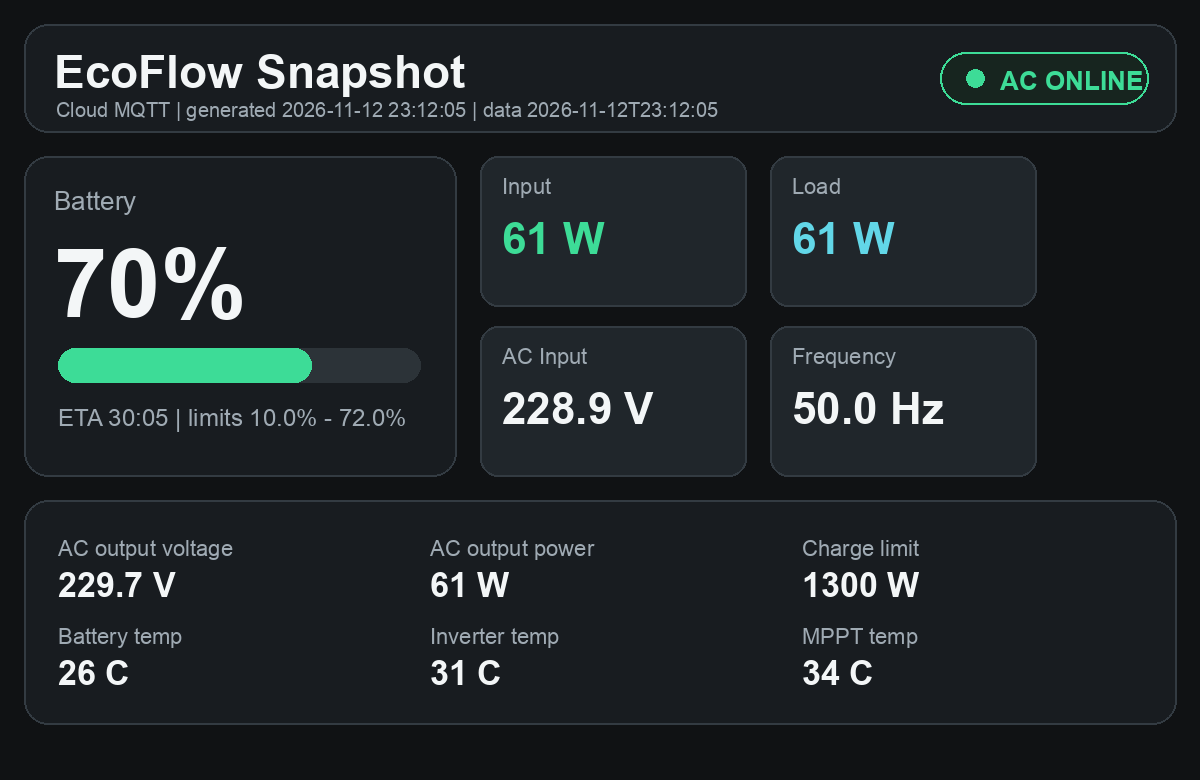
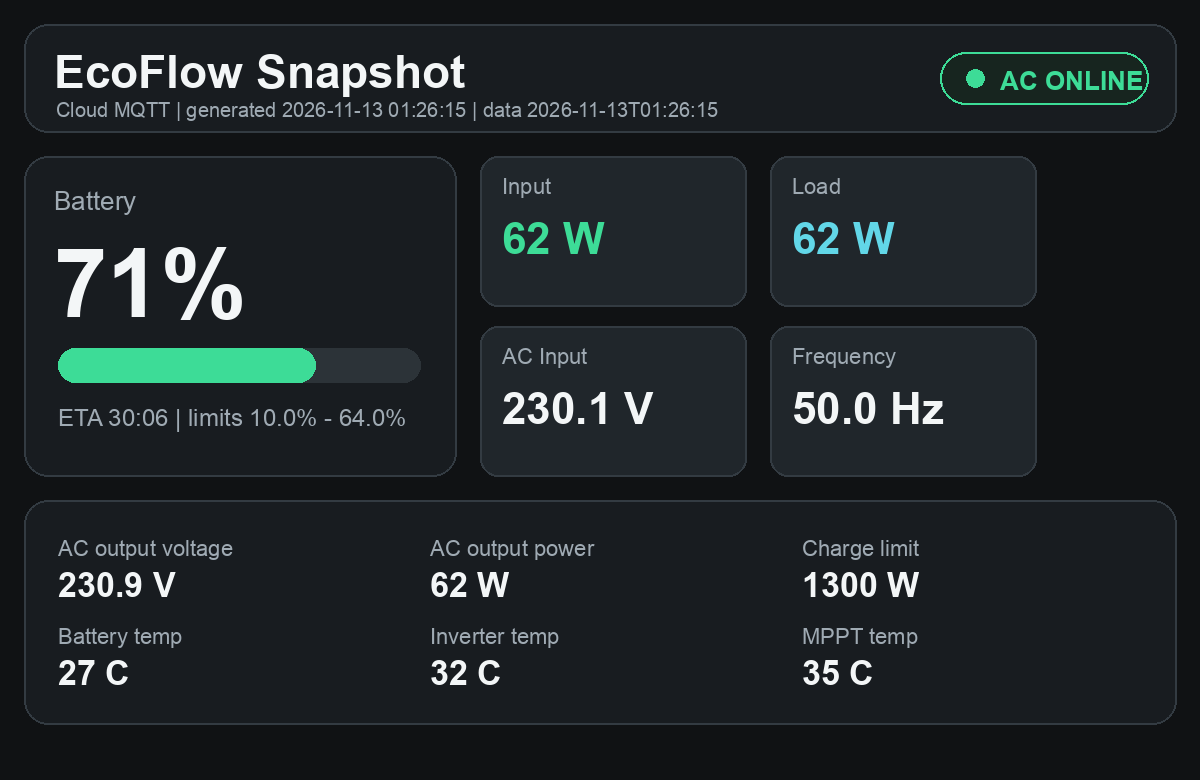
Update EcoFlow dashboard 2026-11-13 01:26:17

diff --git a/index.html b/index.html
@@ -75,7 +75,7 @@
       overflow: hidden;
       margin-top: 14px;
     }
-    .fill { width: 70%; height: 100%; background: linear-gradient(90deg, var(--green), var(--cyan)); }
+    .fill { width: 71%; height: 100%; background: linear-gradient(90deg, var(--green), var(--cyan)); }
     .cards {
       display: grid;
       grid-template-columns: repeat(4, minmax(0, 1fr));
@@ -177,7 +177,7 @@
   <header>
     <div>
       <h1>EcoFlow Snapshot</h1>
-      <div class="sub">Cloud MQTT · generated 2026-11-12T23:12:05 · data 2026-11-12T23:12:05</div>
+      <div class="sub">Cloud MQTT · generated 2026-11-13T01:26:15 · data 2026-11-13T01:26:15</div>
     </div>
     <div class="status online"><span class="dot"></span><span>AC online</span></div>
   </header>
@@ -187,38 +187,38 @@
   <div class="grid">
     <section>
       <h2>Battery</h2>
-      <div class="value">70%</div>
+      <div class="value">71%</div>
       <div class="battery"><div class="fill"></div></div>
-      <div class="row"><span>ETA</span><span>30:05</span></div>
-      <div class="row"><span>SOC limits</span><span>10.0% - 72.0%</span></div>
+      <div class="row"><span>ETA</span><span>30:06</span></div>
+      <div class="row"><span>SOC limits</span><span>10.0% - 64.0%</span></div>
     </section>
     <section>
       <h2>AC</h2>
-      <div class="row"><span>Input voltage</span><span>228.9 V</span></div>
+      <div class="row"><span>Input voltage</span><span>230.1 V</span></div>
       <div class="row"><span>Input frequency</span><span>50.0 Hz</span></div>
-      <div class="row"><span>Output voltage</span><span>229.7 V</span></div>
+      <div class="row"><span>Output voltage</span><span>230.9 V</span></div>
     </section>
   </div>
 
   <div class="cards">
-    <div class="card"><span class="label">Input</span><span class="value">61 W</span></div>
-    <div class="card"><span class="label">Load</span><span class="value">61 W</span></div>
-    <div class="card"><span class="label">Battery temp</span><span class="value">26°C</span></div>
-    <div class="card"><span class="label">Inverter temp</span><span class="value">31°C</span></div>
+    <div class="card"><span class="label">Input</span><span class="value">62 W</span></div>
+    <div class="card"><span class="label">Load</span><span class="value">62 W</span></div>
+    <div class="card"><span class="label">Battery temp</span><span class="value">27°C</span></div>
+    <div class="card"><span class="label">Inverter temp</span><span class="value">32°C</span></div>
   </div>
 
   
     <section class="daily-card">
       <h2>Останні 24 години</h2>
       <div class="daily-grid">
-        <div class="daily-item"><span class="label">Напруга min / max</span><strong>221 V / 237 V</strong><small>12.11 06:53 / 11.11 23:55</small></div>
-        <div class="daily-item"><span class="label">SOC min / max</span><strong>70% / 80%</strong><small>12.11 20:32 / 11.11 23:37</small></div>
+        <div class="daily-item"><span class="label">Напруга min / max</span><strong>221 V / 232 V</strong><small>12.11 06:53 / 12.11 21:51</small></div>
+        <div class="daily-item"><span class="label">SOC min / max</span><strong>70% / 79%</strong><small>12.11 20:32 / 12.11 01:57</small></div>
         <div class="daily-item"><span class="label">Пік навантаження</span><strong>122 W</strong><small>12.11 13:42</small></div>
         <div class="daily-item"><span class="label">Зарядний ліміт</span><strong>1300 W</strong><small>пік входу 122 W · 9% ліміту</small></div>
         <div class="daily-item"><span class="label">Заряджання</span><strong>0 сек</strong><small>--</small></div>
         <div class="daily-item"><span class="label">Розряджання</span><strong>9 хв</strong><small>останнє 12.11 13:25</small></div>
-        <div class="daily-item"><span class="label">Енергія вхід / вихід</span><strong>137 Wh / 148 Wh</strong><small>оцінка за sample-ами</small></div>
-        <div class="daily-item"><span class="label">Частота min / max</span><strong>50.0 Hz / 50.0 Hz</strong><small>11.11 23:37 / 11.11 23:37</small></div>
+        <div class="daily-item"><span class="label">Енергія вхід / вихід</span><strong>123 Wh / 133 Wh</strong><small>оцінка за sample-ами</small></div>
+        <div class="daily-item"><span class="label">Частота min / max</span><strong>50.0 Hz / 50.0 Hz</strong><small>12.11 01:57 / 12.11 01:57</small></div>
       </div>
     </section>
     
@@ -249,29 +249,29 @@
   &quot;ok&quot;: true,
   &quot;source&quot;: &quot;Cloud MQTT&quot;,
   &quot;device&quot;: &quot;DELTA Pro&quot;,
-  &quot;timestamp&quot;: &quot;2026-11-12T23:12:05&quot;,
+  &quot;timestamp&quot;: &quot;2026-11-13T01:26:15&quot;,
   &quot;grid&quot;: true,
   &quot;battery&quot;: {
-    &quot;soc&quot;: 70,
+    &quot;soc&quot;: 71,
     &quot;min&quot;: 10.0,
-    &quot;max&quot;: 72.0,
-    &quot;eta&quot;: &quot;30:05&quot;
+    &quot;max&quot;: 64.0,
+    &quot;eta&quot;: &quot;30:06&quot;
   },
   &quot;power&quot;: {
-    &quot;in&quot;: 61,
-    &quot;out&quot;: 61,
-    &quot;acOut&quot;: 61,
+    &quot;in&quot;: 62,
+    &quot;out&quot;: 62,
+    &quot;acOut&quot;: 62,
     &quot;chargeLimit&quot;: 1300
   },
   &quot;ac&quot;: {
-    &quot;inputVoltage&quot;: 228.886,
+    &quot;inputVoltage&quot;: 230.132,
     &quot;inputFreq&quot;: 50.0,
-    &quot;outputVoltage&quot;: 229.676
+    &quot;outputVoltage&quot;: 230.917
   },
   &quot;temps&quot;: {
-    &quot;battery&quot;: 26,
-    &quot;inverter&quot;: 31,
-    &quot;mppt&quot;: 34
+    &quot;battery&quot;: 27,
+    &quot;inverter&quot;: 32,
+    &quot;mppt&quot;: 35
   },
   &quot;history&quot;: [
     {
@@ -391,16 +391,16 @@
   ],
   &quot;telemetry&quot;: {
     &quot;window&quot;: &quot;24h&quot;,
-    &quot;sample_count&quot;: 57,
-    &quot;from&quot;: &quot;2026-11-11T23:17:17&quot;,
-    &quot;to&quot;: &quot;2026-11-12T23:12:05&quot;,
+    &quot;sample_count&quot;: 51,
+    &quot;from&quot;: &quot;2026-11-12T01:57:23&quot;,
+    &quot;to&quot;: &quot;2026-11-13T01:26:15&quot;,
     &quot;latest&quot;: {
       &quot;mode&quot;: &quot;idle&quot;,
       &quot;grid&quot;: true,
-      &quot;soc&quot;: 70.0,
-      &quot;ac_v&quot;: 228.886,
-      &quot;in_w&quot;: 61.0,
-      &quot;out_w&quot;: 61.0,
+      &quot;soc&quot;: 71.0,
+      &quot;ac_v&quot;: 230.132,
+      &quot;in_w&quot;: 62.0,
+      &quot;out_w&quot;: 62.0,
       &quot;charge_limit_w&quot;: 1300.0
     },
     &quot;voltage&quot;: {
@@ -409,16 +409,16 @@
         &quot;ts&quot;: &quot;2026-11-12T06:53:58&quot;
       },
       &quot;max&quot;: {
-        &quot;value&quot;: 236.7,
-        &quot;ts&quot;: &quot;2026-11-11T23:55:44&quot;
+        &quot;value&quot;: 231.6,
+        &quot;ts&quot;: &quot;2026-11-12T21:51:00&quot;
       },
       &quot;frequency_min&quot;: {
         &quot;value&quot;: 50.0,
-        &quot;ts&quot;: &quot;2026-11-11T23:37:00&quot;
+        &quot;ts&quot;: &quot;2026-11-12T01:57:23&quot;
       },
       &quot;frequency_max&quot;: {
         &quot;value&quot;: 50.0,
-        &quot;ts&quot;: &quot;2026-11-11T23:37:00&quot;
+        &quot;ts&quot;: &quot;2026-11-12T01:57:23&quot;
       }
     },
     &quot;soc&quot;: {
@@ -427,8 +427,8 @@
         &quot;ts&quot;: &quot;2026-11-12T20:32:31&quot;
       },
       &quot;max&quot;: {
-        &quot;value&quot;: 80.0,
-        &quot;ts&quot;: &quot;2026-11-11T23:37:00&quot;
+        &quot;value&quot;: 79.0,
+        &quot;ts&quot;: &quot;2026-11-12T01:57:23&quot;
       }
     },
     &quot;power&quot;: {
@@ -446,16 +446,16 @@
       },
       &quot;charge_limit_w&quot;: 1300.0,
       &quot;max_input_pct_of_current_limit&quot;: 9,
-      &quot;input_wh_est&quot;: 136.7,
-      &quot;load_wh_est&quot;: 147.6
+      &quot;input_wh_est&quot;: 123.1,
+      &quot;load_wh_est&quot;: 132.8
     },
     &quot;modes&quot;: {
       &quot;charging_sec&quot;: 0,
       &quot;discharging_sec&quot;: 540,
-      &quot;idle_sec&quot;: 9540,
+      &quot;idle_sec&quot;: 8460,
       &quot;charging&quot;: &quot;0 сек&quot;,
       &quot;discharging&quot;: &quot;9 хв&quot;,
-      &quot;idle&quot;: &quot;2 год 39 хв&quot;,
+      &quot;idle&quot;: &quot;2 год 21 хв&quot;,
       &quot;last_charging&quot;: null,
       &quot;last_discharging&quot;: {
         &quot;ts&quot;: &quot;2026-11-12T13:25:03&quot;,
